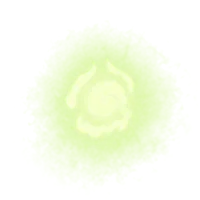
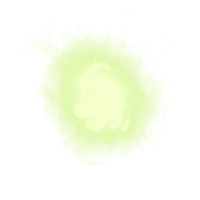
Give the largest glyph to the top deck and turn the ring clockwise
The glyph layer is mirrored and re-cut so sprite n belongs to rank n,
starting from the largest glyph. Each next rank sits to the right of the
front, so stepping through the ranks turns the ring clockwise.

diff --git a/src/pages/Home.jsx b/src/pages/Home.jsx
@@ -168,8 +168,10 @@ function TopDecksSection() {
 }
 
 // The Brainstorm art split in two layers: the character stays put and the 16
-// glyphs orbit her, one per top archetype. Sprites are cut from the painting
-// in clockwise order starting at the front, so at rest the ring matches it.
+// glyphs orbit her, one per top archetype. Sprite i is rank i: the largest
+// glyph first, then its neighbours in the (mirrored) painting. Each next rank
+// sits to the right of the front, so stepping through the ranks turns the
+// ring clockwise.
 const GLYPHS = 16
 const STEP = (2 * Math.PI) / GLYPHS
 // Ring geometry, as a fraction of the 1407×1118 painting
@@ -248,7 +250,7 @@ function BrainstormSection() {
     drag.v = (e.clientX - drag.lastX) / pxPerGlyph / dt
     drag.lastX = e.clientX
     drag.lastT = e.timeStamp
-    setNow(drag.rot + dx / pxPerGlyph)
+    setNow(drag.rot - dx / pxPerGlyph)
   }
 
   const onPointerUp = () => {
@@ -256,12 +258,12 @@ function BrainstormSection() {
     dragRef.current = null
     draggedRef.current = !!drag?.moved
     // A flick carries on for a few glyphs before snapping
-    if (drag?.moved) animateTo(Math.round(rotRef.current + drag.v * 250))
+    if (drag?.moved) animateTo(Math.round(rotRef.current - drag.v * 250))
   }
 
   const onKeyDown = (e) => {
-    if (e.key === 'ArrowLeft') focus(Math.round(targetRef.current) + 1)
-    else if (e.key === 'ArrowRight') focus(Math.round(targetRef.current) - 1)
+    if (e.key === 'ArrowLeft') focus(Math.round(targetRef.current) - 1)
+    else if (e.key === 'ArrowRight') focus(Math.round(targetRef.current) + 1)
     else return
     e.preventDefault()
   }
@@ -283,7 +285,7 @@ function BrainstormSection() {
           <img src="/images/brainstorm/character.webp" alt="" draggable={false}
             className="absolute inset-0 w-full h-full pointer-events-none" />
           {decks.map((d, i) => {
-            const theta = Math.PI / 2 + (i - rot) * STEP
+            const theta = Math.PI / 2 - (i - rot) * STEP
             const depth = (Math.sin(theta) + 1) / 2 // 0 at the back, 1 at the front
             const near = Math.max(0, 1 - Math.abs(wrap(i - rot + GLYPHS / 2) - GLYPHS / 2))
             // The glyph at the very back slips behind her head
@@ -319,10 +321,10 @@ function BrainstormSection() {
         </div>
 
         <div className="mt-3 flex items-center justify-between gap-3 text-sm text-gray-400">
-          <button onClick={() => focus(Math.round(targetRef.current) + 1)} aria-label="Previous glyph"
+          <button onClick={() => focus(Math.round(targetRef.current) - 1)} aria-label="Previous archetype"
             className="px-3 py-1 rounded-md border border-gray-700 hover:border-amber-400/50 hover:text-amber-400 transition-colors">‹</button>
           <span className="text-xs">Drag the glyphs, click one, or use the arrow keys</span>
-          <button onClick={() => focus(Math.round(targetRef.current) - 1)} aria-label="Next glyph"
+          <button onClick={() => focus(Math.round(targetRef.current) + 1)} aria-label="Next archetype"
             className="px-3 py-1 rounded-md border border-gray-700 hover:border-amber-400/50 hover:text-amber-400 transition-colors">›</button>
         </div>
 
